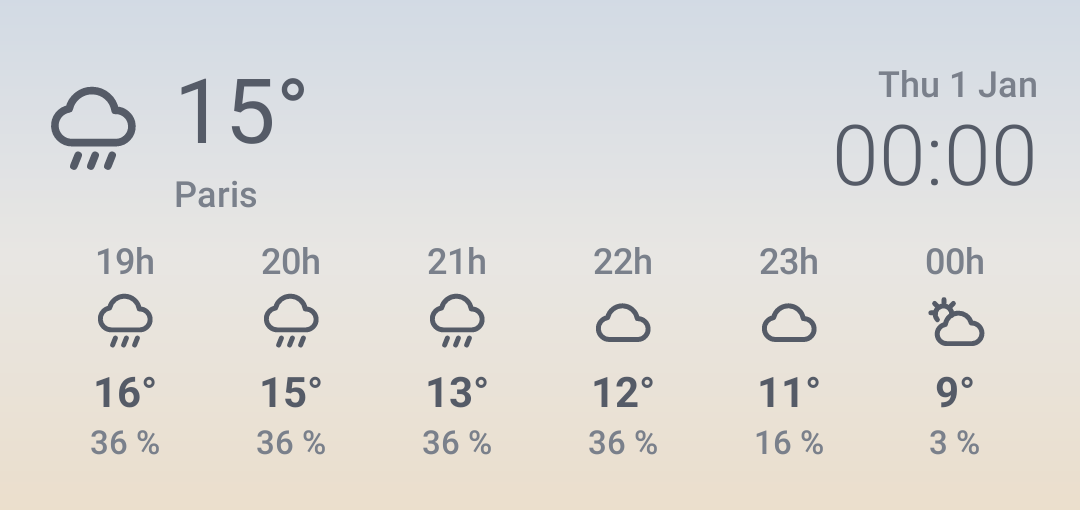
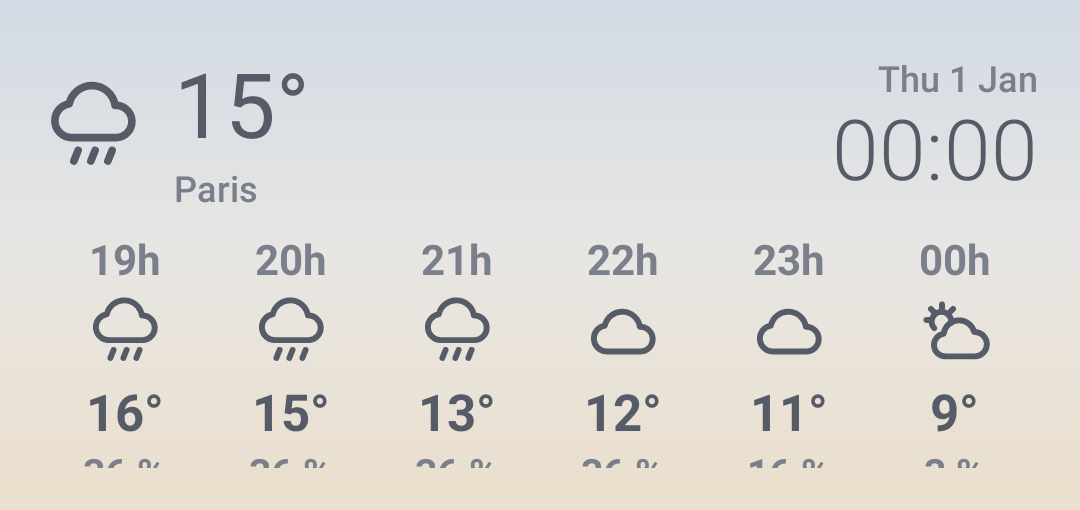
Widgets : option 6/12 h par widget, contenu collé en haut, prévisions plus grandes
Claude-Session: https://claude.ai/code/session_01VhSL2CRbYz8j8n8SGyW4DJ

diff --git a/android-app/app/src/main/java/com/namm/meteo/widget/WidgetConfigActivity.kt b/android-app/app/src/main/java/com/namm/meteo/widget/WidgetConfigActivity.kt
@@ -70,15 +70,21 @@ class WidgetConfigActivity : ComponentActivity() {
         setResult(RESULT_OK, Intent().putExtra(AppWidgetManager.EXTRA_APPWIDGET_ID, appWidgetId))
         val app = application as MeteoApp
         val initial = WidgetConfigStore.read(this, appWidgetId)
-        val isMap = AppWidgetManager.getInstance(this).getAppWidgetInfo(appWidgetId)
-            ?.provider?.className?.endsWith("MapWidgetReceiver") == true
+        val provider = AppWidgetManager.getInstance(this).getAppWidgetInfo(appWidgetId)?.provider?.className.orEmpty()
+        val isMap = provider.endsWith("MapWidgetReceiver")
+        // Journée et 12 h : choix du nombre d'heures (défaut 6 ou 12 selon le widget).
+        val defaultHours = when {
+            provider.endsWith("TwelveHoursWidgetReceiver") -> 12
+            provider.endsWith("DayWidgetReceiver") -> 6
+            else -> null
+        }
 
         setContent {
             val settings by app.settings.settings.collectAsStateWithLifecycle(initialValue = null)
             val scope = rememberCoroutineScope()
             MeteoTheme(settings?.theme ?: ThemeMode.SYSTEM) {
                 WidgetConfigContent(
-                    initial = initial,
+                    initial = initial.copy(hours = initial.hours ?: defaultHours),
                     isMap = isMap,
                     onSave = { style ->
                         WidgetConfigStore.write(this, appWidgetId, style)
@@ -98,6 +104,7 @@ fun WidgetConfigContent(initial: WidgetStyle, isMap: Boolean, onSave: (WidgetSty
     var opacity by remember { mutableStateOf(initial.opacity) }
     var text by remember { mutableStateOf(initial.text) }
     var bg by remember { mutableStateOf(initial.background) }
+    var hours by remember { mutableStateOf(initial.hours) }
     Column(
         Modifier.fillMaxSize().background(Slate.Background).safeDrawingPadding()
             .verticalScroll(rememberScrollState()).padding(24.dp),
@@ -126,10 +133,17 @@ fun WidgetConfigContent(initial: WidgetStyle, isMap: Boolean, onSave: (WidgetSty
         SectionLabel("TEXTE ET ICÔNES")
         Choice(WidgetTextColor.entries, text, { it.label }) { text = it }
 
+        // Uniquement pour les widgets Journée / 12 h.
+        hours?.let { h ->
+            Spacer(Modifier.height(20.dp))
+            SectionLabel("HEURES AFFICHÉES")
+            Choice(listOf(6, 12), h, { "$it heures" }) { hours = it }
+        }
+
         Spacer(Modifier.height(32.dp))
         Box(
             Modifier.fillMaxWidth().clip(RoundedCornerShape(50)).background(Slate.Primary)
-                .clickable { onSave(WidgetStyle(opacity, text, bg)) }.padding(vertical = 16.dp),
+                .clickable { onSave(WidgetStyle(opacity, text, bg, hours)) }.padding(vertical = 16.dp),
             contentAlignment = Alignment.Center,
         ) {
             Text("Valider", color = Slate.Background, style = MaterialTheme.typography.titleMedium)

diff --git a/android-app/app/src/main/java/com/namm/meteo/widget/WidgetContent.kt b/android-app/app/src/main/java/com/namm/meteo/widget/WidgetContent.kt
@@ -95,10 +95,17 @@ private fun Icon(res: Int, color: ColorProvider, size: Dp) =
 
 /** Fond arrondi commun ; un appui ouvre l'app. Contenu compact, centré verticalement. */
 @Composable
-fun WidgetFrame(c: WidgetColors, onClick: Action, padding: Dp = 14.dp, content: @Composable () -> Unit) {
+fun WidgetFrame(
+    c: WidgetColors,
+    onClick: Action,
+    padding: Dp = 14.dp,
+    /** En haut par défaut (le contenu reste là où on a posé le widget) ; centré pour les widgets d'une ligne. */
+    alignment: Alignment = Alignment.TopStart,
+    content: @Composable () -> Unit,
+) {
     Box(
         GlanceModifier.fillMaxSize().background(c.background).cornerRadius(22.dp).padding(padding).clickable(onClick),
-        contentAlignment = Alignment.CenterStart,
+        contentAlignment = alignment,
     ) { content() }
 }
 
@@ -210,15 +217,15 @@ private fun HourColumn(h: HourlyForecast, c: WidgetColors, modifier: GlanceModif
     Column(modifier, horizontalAlignment = Alignment.CenterHorizontally) {
         Text(
             h.time.substringAfter('T').take(2) + if (compact) "" else "h",
-            style = TextStyle(color = c.secondary, fontSize = 12.sp, fontWeight = FontWeight.Medium),
+            style = TextStyle(color = c.secondary, fontSize = if (compact) 13.sp else 14.sp, fontWeight = FontWeight.Bold),
         )
         Spacer(GlanceModifier.height(2.dp))
-        Icon(WeatherCondition.fromWmo(h.weatherCode).widgetIcon(), c.primary, if (compact) 18.dp else 22.dp)
+        Icon(WeatherCondition.fromWmo(h.weatherCode).widgetIcon(), c.primary, if (compact) 20.dp else 26.dp)
         Spacer(GlanceModifier.height(2.dp))
-        Text("${h.temperature.roundToInt()}°", style = TextStyle(color = c.primary, fontSize = 14.sp, fontWeight = FontWeight.Bold))
+        Text("${h.temperature.roundToInt()}°", style = TextStyle(color = c.primary, fontSize = if (compact) 15.sp else 17.sp, fontWeight = FontWeight.Bold))
         Text(
             if (compact) "${h.precipitationProbability}" else "${h.precipitationProbability} %",
-            style = TextStyle(color = c.secondary, fontSize = 11.sp, fontWeight = FontWeight.Medium),
+            style = TextStyle(color = c.secondary, fontSize = if (compact) 12.sp else 13.sp, fontWeight = FontWeight.Bold),
         )
     }
 }

diff --git a/android-app/app/src/main/java/com/namm/meteo/widget/Widgets.kt b/android-app/app/src/main/java/com/namm/meteo/widget/Widgets.kt
@@ -6,6 +6,7 @@ import android.content.res.Configuration
 import android.graphics.BitmapFactory
 import androidx.compose.ui.unit.dp
 import androidx.glance.GlanceId
+import androidx.glance.layout.Alignment
 import androidx.glance.action.Action
 import androidx.glance.appwidget.GlanceAppWidget
 import androidx.glance.appwidget.GlanceAppWidgetManager
@@ -48,14 +49,21 @@ abstract class MeteoWidget(private val kind: WidgetKind) : GlanceAppWidget() {
         val map = if (kind == WidgetKind.MAP) WidgetMapStore.read(context) else null
         val open = openAction(context, kind)
         provideContent {
-            WidgetFrame(colors, open, padding = if (kind == WidgetKind.MAP) 10.dp else 14.dp) {
+            val oneLine = kind == WidgetKind.MINI || kind == WidgetKind.RAIN
+            WidgetFrame(
+                colors, open,
+                padding = if (kind == WidgetKind.MAP) 10.dp else 14.dp,
+                alignment = if (oneLine) Alignment.CenterStart else Alignment.TopStart,
+            ) {
                 when {
                     kind == WidgetKind.MAP -> MapContent(map?.first, map?.second, colors)
                     data == null -> EmptyContent(colors)
                     kind == WidgetKind.MINI -> MiniContent(data, colors)
                     kind == WidgetKind.RAIN -> RainContent(data, colors)
-                    kind == WidgetKind.DAY -> DayContent(data, colors)
-                    kind == WidgetKind.TWELVE -> TwelveHoursContent(data, colors)
+                    // Journée / 12 h : nombre d'heures réglable par widget (6 ou 12).
+                    kind == WidgetKind.DAY || kind == WidgetKind.TWELVE ->
+                        if ((style.hours ?: if (kind == WidgetKind.TWELVE) 12 else 6) == 12) TwelveHoursContent(data, colors)
+                        else DayContent(data, colors)
                     else -> WeekContent(data, colors)
                 }
             }

diff --git a/android-app/app/src/main/java/com/namm/meteo/widget/WidgetConfig.kt b/android-app/app/src/main/java/com/namm/meteo/widget/WidgetConfig.kt
@@ -21,6 +21,8 @@ data class WidgetStyle(
     val opacity: WidgetOpacity = WidgetOpacity.OPAQUE,
     val text: WidgetTextColor = WidgetTextColor.AUTO,
     val background: WidgetBgColor = WidgetBgColor.AUTO,
+    /** Heures de prévision affichées (widgets Journée / 12 h) ; null = défaut du widget. */
+    val hours: Int? = null,
 )
 
 /** Réglages propres à chaque widget posé (clé = appWidgetId Android). */
@@ -36,6 +38,7 @@ object WidgetConfigStore {
                 ?: WidgetTextColor.AUTO,
             background = p.getString("bg_$appWidgetId", null)?.let { runCatching { WidgetBgColor.valueOf(it) }.getOrNull() }
                 ?: WidgetBgColor.AUTO,
+            hours = p.getInt("hours_$appWidgetId", 0).takeIf { it > 0 },
         )
     }
 
@@ -44,12 +47,13 @@ object WidgetConfigStore {
             .putString("opacity_$appWidgetId", style.opacity.name)
             .putString("text_$appWidgetId", style.text.name)
             .putString("bg_$appWidgetId", style.background.name)
+            .apply { style.hours?.let { putInt("hours_$appWidgetId", it) } }
             .apply()
     }
 
     fun delete(context: Context, appWidgetIds: IntArray) {
         val e = prefs(context).edit()
-        appWidgetIds.forEach { e.remove("opacity_$it").remove("text_$it").remove("bg_$it") }
+        appWidgetIds.forEach { e.remove("opacity_$it").remove("text_$it").remove("bg_$it").remove("hours_$it") }
         e.apply()
     }
 }

diff --git a/android-app/app/src/test/java/com/namm/meteo/ui/WidgetScreenshotTest.kt b/android-app/app/src/test/java/com/namm/meteo/ui/WidgetScreenshotTest.kt
@@ -90,7 +90,7 @@ class WidgetScreenshotTest {
     fun widgets() {
         capture("widget_mini", 170, 80) { WidgetFrame(dark, open) { MiniContent(data, dark) } }
         capture("widget_pluie", 360, 80) { WidgetFrame(dark, open) { RainContent(data, dark) } }
-        capture("widget_journee", 360, 170) { WidgetFrame(dark, open) { DayContent(data, dark) } }
+        capture("widget_journee", 360, 200) { WidgetFrame(dark, open) { DayContent(data, dark) } }
         val clair70 = style(WidgetBgColor.LIGHT, WidgetOpacity.HIGH)
         capture("widget_journee_clair_70", 360, 170) { WidgetFrame(clair70, open) { DayContent(data, clair70) } }
         val transparentFonce = style(WidgetBgColor.LIGHT, WidgetOpacity.TRANSPARENT, WidgetTextColor.DARK)

diff --git a/android-app/app/src/test/java/com/namm/meteo/ui/ScreenshotTest.kt b/android-app/app/src/test/java/com/namm/meteo/ui/ScreenshotTest.kt
@@ -119,9 +119,10 @@ class ScreenshotTest {
     }
 
     @Test
+    @Config(qualifiers = "w411dp-h1100dp-xxhdpi")
     fun reglagesWidget() = capture("widget_reglages") {
         com.namm.meteo.widget.WidgetConfigContent(
-            initial = com.namm.meteo.widget.WidgetStyle(com.namm.meteo.widget.WidgetOpacity.LOW, com.namm.meteo.widget.WidgetTextColor.LIGHT),
+            initial = com.namm.meteo.widget.WidgetStyle(com.namm.meteo.widget.WidgetOpacity.LOW, com.namm.meteo.widget.WidgetTextColor.LIGHT, hours = 12),
             isMap = false,
             onSave = {},
         )

diff --git a/CLAUDE.md b/CLAUDE.md
@@ -58,7 +58,7 @@ echo "robolectricRepo=https://maven-central.storage-download.googleapis.com/mave
 - Tests : fixtures dans `app/src/test/resources/` (`forecast.json`, `geocoding.json` réelles — bloc `hourly` de `forecast.json` complété ; `grid.json` au format multi-points) ; tout nouvel écran a un test Roborazzi (`ScreenshotTest`, application neutre `android.app.Application` pour éviter WorkManager).
 - Accueil = position GPS par défaut ; lieux préenregistrés gérés dans Paramètres (`SettingsStore`). La carte utilise le même lieu que l'accueil.
 - Carte : Open-Meteo par défaut ; AROME-PI (Météo-France) si une clé est enregistrée dans Paramètres. Aucune clé dans le code ni le dépôt.
-- Widgets (Glance, `widget/`) : Mini 2×1, Pluie 4×1, Journée 4×2, 12 h 4×2 (12 colonnes = 2 demi-lignes de 6), Semaine 4×3, Carte de pluie 4×3 (image ≈ 50 km au format réel du widget, dessinée par `WidgetMapRenderer` dans `RefreshWorker` toutes les 15 min). Rendus testés dans `WidgetScreenshotTest` (GlanceRemoteViews → PNG). Réglages propres à chaque widget (couleur du fond Auto/Clair/Sombre, opacité Opaque/70 %/40 %/Transparent, texte Auto/Blanc/Foncé) via `WidgetConfigActivity` (pose du widget ou appui long → Paramètres), stockés par appWidgetId dans `WidgetConfigStore`. Design commun : en-tête météo actuelle + date/heure (TextClock via `AndroidRemoteViews`, dans une boîte de largeur fixe), textes de prévision en gras, pourcentages dans la couleur du texte (pas en bleu), mise en page compacte. Une ligne Glance accepte au plus 10 enfants. En test, la vue doit être attachée à une activité pour que les TextClock s'affichent. Les classes de widgets sont protégées de la fusion R8 (`proguard-rules.pro`, vérifié en CI) : les tests tournent en debug, non minifié, et ne voient pas ce genre de bug.
+- Widgets (Glance, `widget/`) : Mini 2×1, Pluie 4×1, Journée 4×2, 12 h 4×2 (12 colonnes = 2 demi-lignes de 6), Semaine 4×3, Carte de pluie 4×3 (image ≈ 50 km au format réel du widget, dessinée par `WidgetMapRenderer` dans `RefreshWorker` toutes les 15 min). Rendus testés dans `WidgetScreenshotTest` (GlanceRemoteViews → PNG). Réglages propres à chaque widget (heures affichées 6/12 pour Journée et 12 h, couleur du fond Auto/Clair/Sombre, opacité Opaque/70 %/40 %/Transparent, texte Auto/Blanc/Foncé) via `WidgetConfigActivity` (pose du widget ou appui long → Paramètres), stockés par appWidgetId dans `WidgetConfigStore`. Design commun : en-tête météo actuelle + date/heure (TextClock via `AndroidRemoteViews`, dans une boîte de largeur fixe), textes de prévision en gras, pourcentages dans la couleur du texte (pas en bleu), mise en page compacte collée en haut (TopStart, sauf Mini/Pluie centrés), prévisions horaires en gras 14–17 sp. Une ligne Glance accepte au plus 10 enfants. En test, la vue doit être attachée à une activité pour que les TextClock s'affichent. Les classes de widgets sont protégées de la fusion R8 (`proguard-rules.pro`, vérifié en CI) : les tests tournent en debug, non minifié, et ne voient pas ce genre de bug.
 - Navigation : barre flottante en bas de l'accueil (carte de pluie, paramètres) ; actualisation de l'accueil en tirant vers le bas.
 
 ## Release & signature
